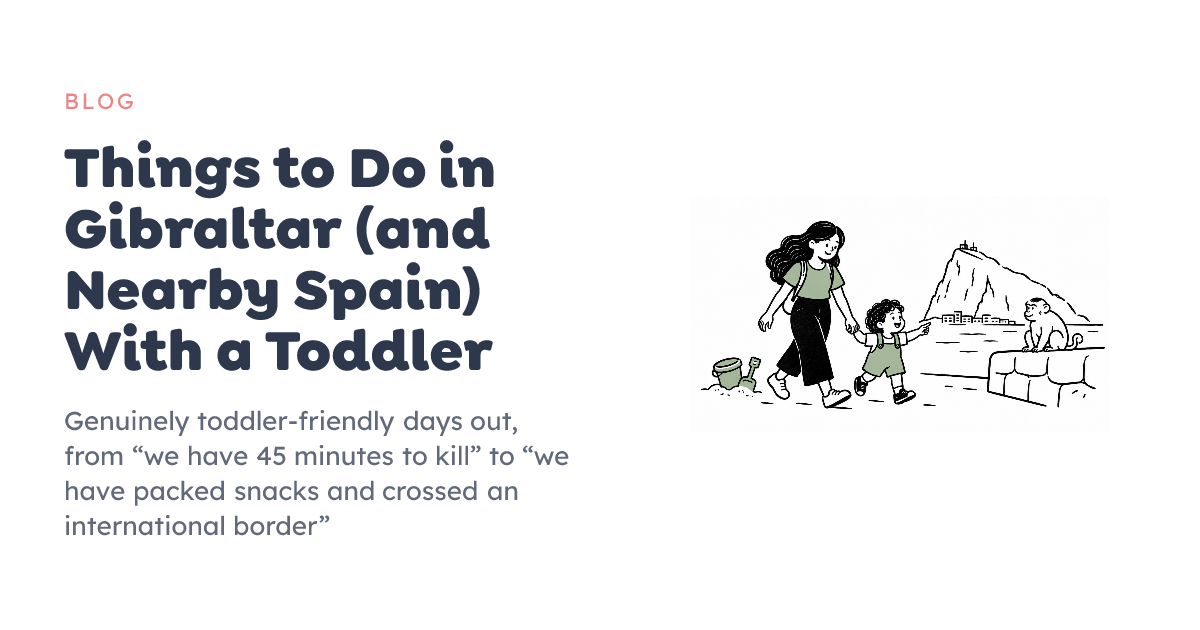
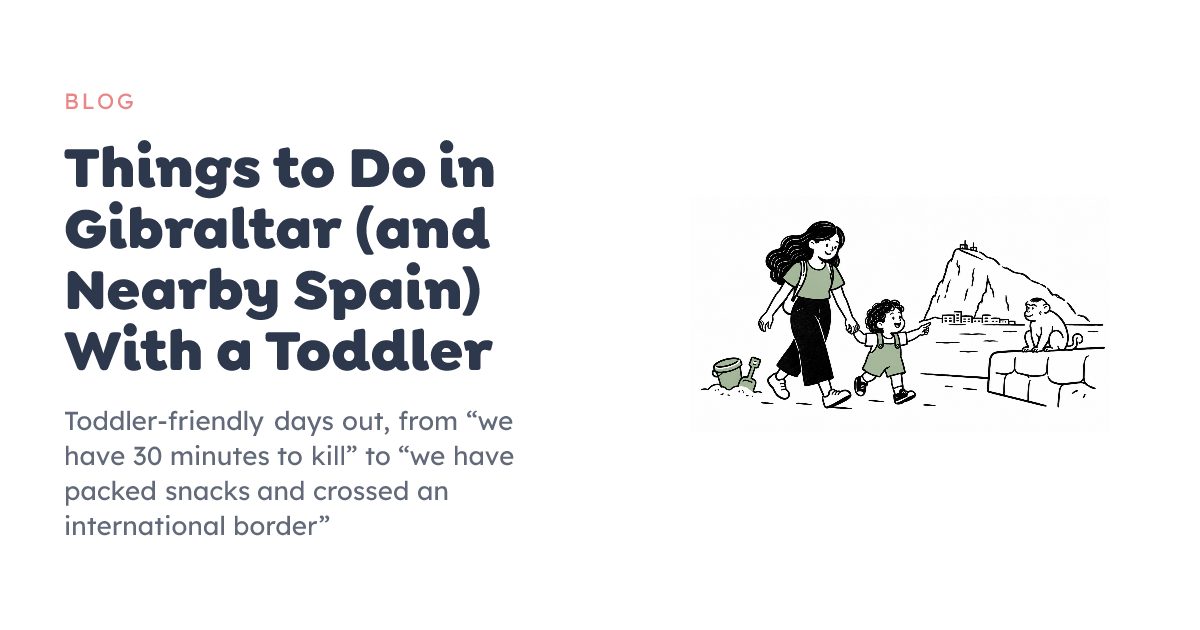
update toddler days out blog subtitle

Changed region(s): [[0.0308, 0.6333, 0.4933, 0.8143]]

diff --git a/content/blog/things-to-do-in-gibraltar-with-a-toddler.md b/content/blog/things-to-do-in-gibraltar-with-a-toddler.md
@@ -1,6 +1,6 @@
 ---
 title: "Things to Do in Gibraltar (and Nearby Spain) With a Toddler"
-excerpt: "Genuinely toddler-friendly days out, from “we have 45 minutes to kill” to “we have packed snacks and crossed an international border”"
+excerpt: "Toddler-friendly days out, from “we have 30 minutes to kill” to “we have packed snacks and crossed an international border”"
 seoTitle: "Things to Do in Gibraltar With a Toddler: Easy Days Out in Gibraltar & Nearby Spain"
 seoDescription: "Looking for things to do with a toddler? From Gibraltar playgrounds and beaches to Bounce Jump, animal parks and easy trips into Spain, here are days out that work with little ones."
 date: "2026-09-15"
@@ -74,6 +74,8 @@ There’s the playground, plenty to look at, enormous views across the Strait an
 You can spot ships, look at the lighthouse, wander about and then leave whenever you like. No timed entry. No expensive ticket you feel morally obliged to squeeze three hours out of. This is important. With toddlers, the ability to abandon an outing after 22 minutes without feeling you’ve wasted £60 is an underrated luxury.
 
 **Toddler reality:** High entertainment-to-effort ratio. Bring a layer if it’s windy, because Europa Point is often wiiiindy.
+
+![A parent and toddler walking in Gibraltar with the Rock in the background.](/blog/things-to-do-gibraltar-toddler-doodle.png)
 
 ### Beach + bucket = basically a full itinerary
 
